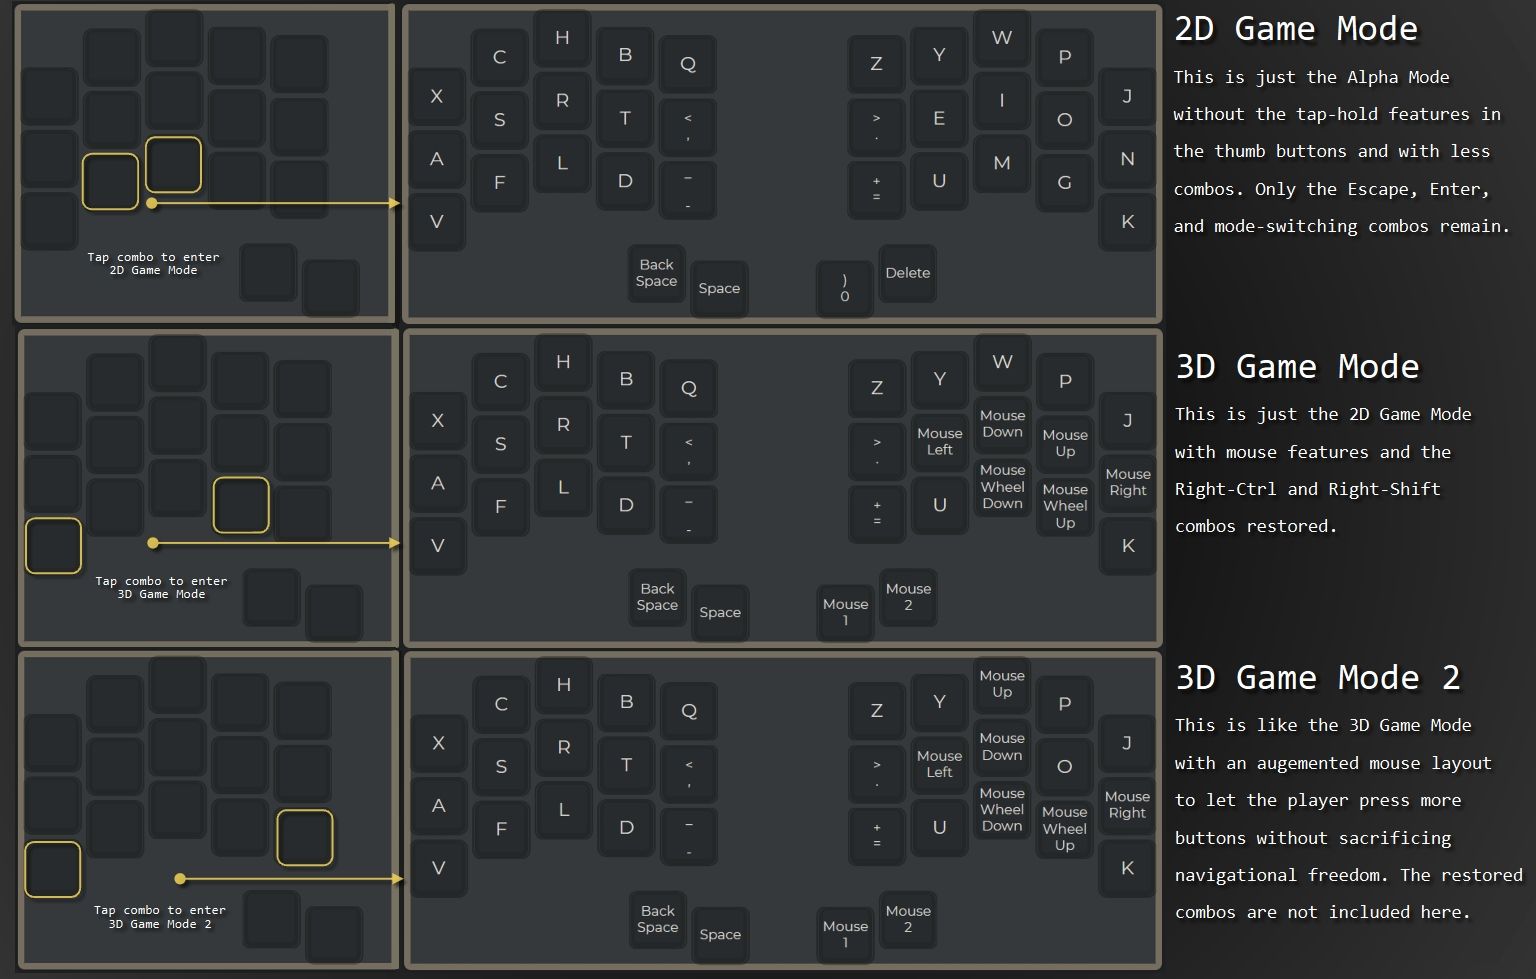
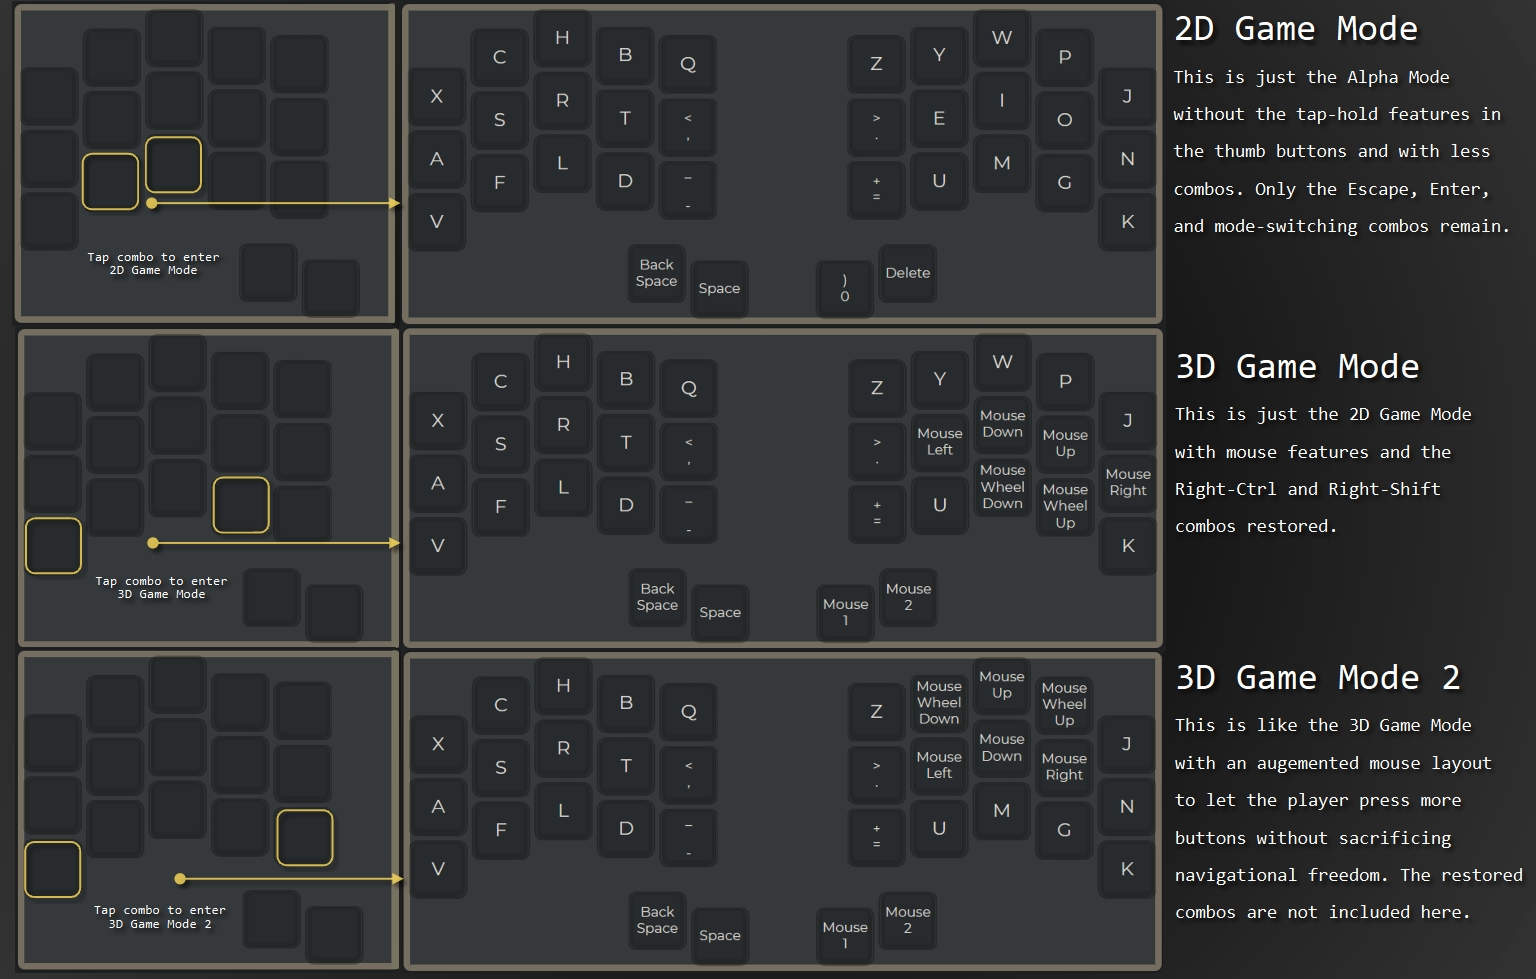
add combo on/off buttons

diff --git a/keymap.c b/keymap.c
@@ -24,7 +24,7 @@ static mod_builder_queue mbq = {false, false, false, 0, 0, {0}};
 // DATA: TAPDANCE
 
 enum td_keycodes {NMBR_CW};
-typedef enum {UNKNOWN, SINGLE_TAP, SINGLE_HLD, DOUBLE_TAP} td_state_t;
+typedef enum {UNKNOWN, SINGLE_TAP, SINGLE_HLD, DOUBLE_TAP, TRIPLE_TAP} td_state_t;
 static td_state_t td_nmb_cw_state = UNKNOWN; // MO_NMB_LAYER when held, CAPSWORD when tapped
 void td_nmb_cw_finished (tap_dance_state_t*, void*);
 void td_nmb_cw_reset (tap_dance_state_t*, void*);
@@ -46,47 +46,47 @@ const uint16_t PROGMEM keymaps[][MATRIX_ROWS][MATRIX_COLS] = {
     [GM2D_LAYER] = LAYOUT_split_3x5_2( // GAME 2D: Base sans hold-tap features
         _______, _______, _______, _______, _______,     _______, _______, _______, _______, _______,
         _______, _______, _______, _______, _______,     _______, _______, _______, _______, _______,
-        _______, _______, _______, _______, _______,     _______, _______, _______, _______, _______,
+        _______, KC_ESC,  KC_ENT,  _______, CM_OFF,      CM_ON,   _______, _______, _______, _______,
                                    _______, KC_SPC,      KC_0,    _______),
     [G3D1_LAYER] = LAYOUT_split_3x5_2( // GAME 3D: Game 2d but with mouse
         _______, _______, _______, _______, _______,     _______, _______, _______, _______, _______,
         _______, _______, _______, _______, _______,     _______, KC_MS_L, KC_MS_D, KC_MS_U, KC_MS_R,
-        _______, _______, _______, _______, _______,     _______, _______, KC_WH_D, KC_WH_U, _______,
+        _______, KC_ESC, KC_ENT, _______,   CM_OFF,      CM_ON,  _______, KC_WH_D, KC_WH_U, _______,
                                    _______, KC_SPC,      KC_BTN1, KC_BTN2),
     [G3D2_LAYER] = LAYOUT_split_3x5_2( // GAME 3D: Game 2d but with an augmented mouse layout
         _______, _______, _______, _______, _______,     _______, KC_WH_D, KC_MS_U, KC_WH_U, _______,
         _______, _______, _______, _______, _______,     _______, KC_MS_L, KC_MS_D, KC_MS_R, _______,
-        _______, _______, _______, _______, _______,     _______, _______, _______, _______, _______,
+        _______, KC_ESC,  KC_ESC,  _______, CM_OFF,      CM_ON,   _______, _______, _______, _______,
                                    _______, KC_SPC,      KC_BTN1, KC_BTN2),
     [NMBR_LAYER] = LAYOUT_split_3x5_2( // NUMBER: digits, navigation keys, and symbols
         KC_1,    KC_2,    KC_3,    KC_4,    KC_5,        KC_6,    KC_7,    KC_8,    KC_9,    KC_0,
         KC_LBRC, KC_RBRC, KC_BSLS, KC_SLSH, _______,     _______, KC_LEFT, KC_DOWN, KC_UP,   KC_RIGHT,
-        _______, _______, _______, KC_GRV,  _______,     _______, KC_HOME, KC_PGDN, KC_PGUP, KC_END,
+        _______, KC_ESC,  KC_ENT,  KC_GRV,  _______,     _______,   KC_HOME, KC_PGDN, KC_PGUP, KC_END,
                                    _______, _______,     MO(MO_ALP_LYR), _______),
     [MOUS_LAYER] = LAYOUT_split_3x5_2( // MOUSE: Mouse and function keys
         KC_F1,   KC_F2,   KC_F3,   KC_F4,   KC_F5,       KC_F6,   KC_F7,   KC_F8,   KC_F9,   KC_F10,
-        KC_F11,  KC_F12,  KC_ACL1, KC_ACL0, _______,     _______, KC_MS_L, KC_MS_D, KC_MS_U, KC_MS_R,
-        _______, _______, _______, KC_ACL2, _______,     _______, KC_WH_L, KC_WH_D, KC_WH_U, KC_WH_R,
+        KC_F11,  KC_F12,  KC_ACL1, KC_ACL0, KC_QUOT,     KC_SCLN, KC_MS_L, KC_MS_D, KC_MS_U, KC_MS_R,
+        _______, KC_ENT,  KC_ESC,  KC_ACL2, _______,     _______, KC_WH_L, KC_WH_D, KC_WH_U, KC_WH_R,
                  _______, LT(MO_MAL_LYR, KC_SPC),        KC_BTN1, KC_BTN2),
     [MO_ALP_LYR] = LAYOUT_split_3x5_2( // MOMENTARY ALPHA: Accessed from NUMBER
         KC_X,   KC_C,     KC_H,    KC_B,    KC_Q,        KC_Z,    KC_Y,    KC_W,    KC_P,    KC_J,
         KC_A,   KC_S,     KC_R,    KC_T,    _______,     _______, KC_E,    KC_I,    KC_O,    KC_N,
-        KC_V,   KC_F,     KC_L,    KC_D,    _______,     _______, KC_U,    KC_M,    KC_G,    KC_K,
+        KC_V,   KC_F,     KC_L,    KC_D,    CM_OFF,      CM_ON,   KC_U,    KC_M,    KC_G,    KC_K,
                                    _______, KC_SPC,      _______, _______),
     [MO_MAL_LYR] = LAYOUT_split_3x5_2( // MOMENTARY MOUSE ALPHA: accessed from MOUSE
         KC_X,   KC_C,     KC_H,    KC_B,    KC_Q,        KC_Z,    KC_Y,    KC_W,    KC_P,     KC_J,
         KC_A,   KC_S,     KC_R,    KC_T,    _______,     _______, KC_E,    KC_I,    KC_O,     KC_N,
-        KC_V,   KC_F,     KC_L,    KC_D,    _______,     _______, KC_U,    KC_M,    KC_G,     KC_K,
+        KC_V,   KC_F,     KC_L,    KC_D,    CM_OFF,      CM_ON,   KC_U,    KC_M,    KC_G,     KC_K,
                                    _______, _______,     TD(NMBR_CW), KC_DEL),
     [MO_NMB_LYR] = LAYOUT_split_3x5_2( // MOMENTARY NUMBER: accessed from ALPHA and MOMENTARY MOUSE ALPHA
         KC_1,    KC_2,    KC_3,    KC_4,    KC_5,        KC_6,    KC_7,    KC_8,    KC_9,    KC_0,
         KC_LBRC, KC_RBRC, KC_BSLS, KC_SLSH, _______,     _______, KC_LEFT, KC_DOWN, KC_UP,   KC_RIGHT,
-        _______, _______, _______, KC_GRV,  _______,     _______, KC_HOME, KC_PGDN, KC_PGUP, KC_END,
+        _______, KC_ENT,  KC_ENT,  KC_GRV,  CM_OFF,      CM_ON,   KC_HOME, KC_PGDN, KC_PGUP, KC_END,
                                    _______, KC_SPC,      _______, _______),
     [MO_MSE_LYR] = LAYOUT_split_3x5_2( // MOMENTARY MOUSE: accessed from ALPHA
         KC_F1,   KC_F2,   KC_F3,   KC_F4,   KC_F5,       KC_F6,   KC_F7,   KC_F8,   KC_F9,   KC_F10,
-        KC_F11,  KC_F12,  KC_ACL1, KC_ACL0, _______,     _______, KC_MS_L, KC_MS_D, KC_MS_U, KC_MS_R,
-        _______, _______, _______, KC_ACL2, _______,     _______, KC_WH_L, KC_WH_D, KC_WH_U, KC_WH_R,
+        KC_F11,  KC_F12,  KC_ACL1, KC_ACL0, KC_QUOT,     KC_SCLN, KC_MS_L, KC_MS_D, KC_MS_U, KC_MS_R,
+        _______, KC_ESC,  KC_ENT,  KC_ACL2, CM_OFF,      CM_ON,   KC_WH_L, KC_WH_D, KC_WH_U, KC_WH_R,
                                    _______, _______,     KC_BTN1, KC_BTN2),
 };
 
@@ -196,7 +196,6 @@ bool combo_should_trigger(uint16_t combo_index, combo_t *combo, uint16_t keycode
         if (combo_index != ESC_COMBO_L &&
             combo_index != G2D_COMBO_L &&
             combo_index != G31_COMBO_L &&
-            combo_index != CTL_COMBO_R &&
             combo_index != MSE_COMBO_R &&
             combo_index != NMB_COMBO_R &&
             combo_index != ALP_COMBO_R &&
@@ -211,8 +210,12 @@ bool combo_should_trigger(uint16_t combo_index, combo_t *combo, uint16_t keycode
 bool caps_word_press_user(uint16_t keycode) {
     switch (keycode) {
         // Only letters are affected by capsword.
-        case KC_A ... KC_Z:
+        case KC_A ... KC_0:
             add_weak_mods(MOD_BIT(KC_LSFT));
+            return true;
+        case KC_MINUS ... KC_SLASH:
+            if (td_nmb_cw_state == TRIPLE_TAP)
+                add_weak_mods(MOD_BIT(KC_LSFT));
             return true;
         // Escape and modifiers break capsword
         case KC_ESC:
@@ -229,9 +232,7 @@ bool caps_word_press_user(uint16_t keycode) {
 // Switching to MOUS_LAYER or NMBR_LAYER breaks capsword
 layer_state_t layer_state_set_user(layer_state_t state) {
     switch (get_highest_layer(state)) {
-    case MOUS_LAYER:
-        if (is_caps_word_on()) caps_word_off(); break;
-    case NMBR_LAYER:
+    case G2D_COMBO_L ... MOUS_LAYER:
         if (is_caps_word_on()) caps_word_off(); break;
     default:
         break;
@@ -245,11 +246,13 @@ td_state_t td_get_state(tap_dance_state_t *state) {
     if (state->count == 1) {
         if (!state->pressed)
             return SINGLE_TAP;
-        else return SINGLE_HLD;
+        return SINGLE_HLD;
     }
     if (state->count == 2)
         return DOUBLE_TAP;
-    else return UNKNOWN;
+    if (state->count == 3)
+        return TRIPLE_TAP;
+    return UNKNOWN;
 }
 // Sets keyboard state from MO_NMBR_LAYER/CAPSWORD tapdance state
 void td_nmb_cw_finished(tap_dance_state_t *state, void *user_data) {
@@ -259,7 +262,7 @@ void td_nmb_cw_finished(tap_dance_state_t *state, void *user_data) {
             if (is_caps_word_on()) caps_word_off(); break;
         case SINGLE_HLD:
             layer_on(MO_NMB_LYR); break;
-        case DOUBLE_TAP:
+        case DOUBLE_TAP ... TRIPLE_TAP:
             if (!is_caps_word_on()) caps_word_on(); break;
         default: break;
     }
@@ -270,7 +273,7 @@ void td_nmb_cw_reset(tap_dance_state_t *state, void *user_data) {
         case SINGLE_TAP: break;
         case SINGLE_HLD:
             layer_off(MO_NMB_LYR); break;
-        case DOUBLE_TAP: break;
+        case DOUBLE_TAP ... TRIPLE_TAP: break;
         default: break;
     }
 }

diff --git a/config.h b/config.h
@@ -27,11 +27,11 @@
 #define EXTRA_SHORT_COMBOS
 #define COMBO_SHOULD_TRIGGER
 #define COMBO_STRICT_TIMER
-#define COMBO_TERM 14
+#define COMBO_TERM 16
 #define COMBO_ONLY_FROM_LAYER 0
 // Capswordery
 #define CAPS_WORD_INVERT_ON_SHIFT
 #define CAPS_WORD_IDLE_TIMEOUT 0
 // Tappery
 #define PERMISSIVE_HOLD
-#define TAPPING_TERM 350
+#define TAPPING_TERM 314
